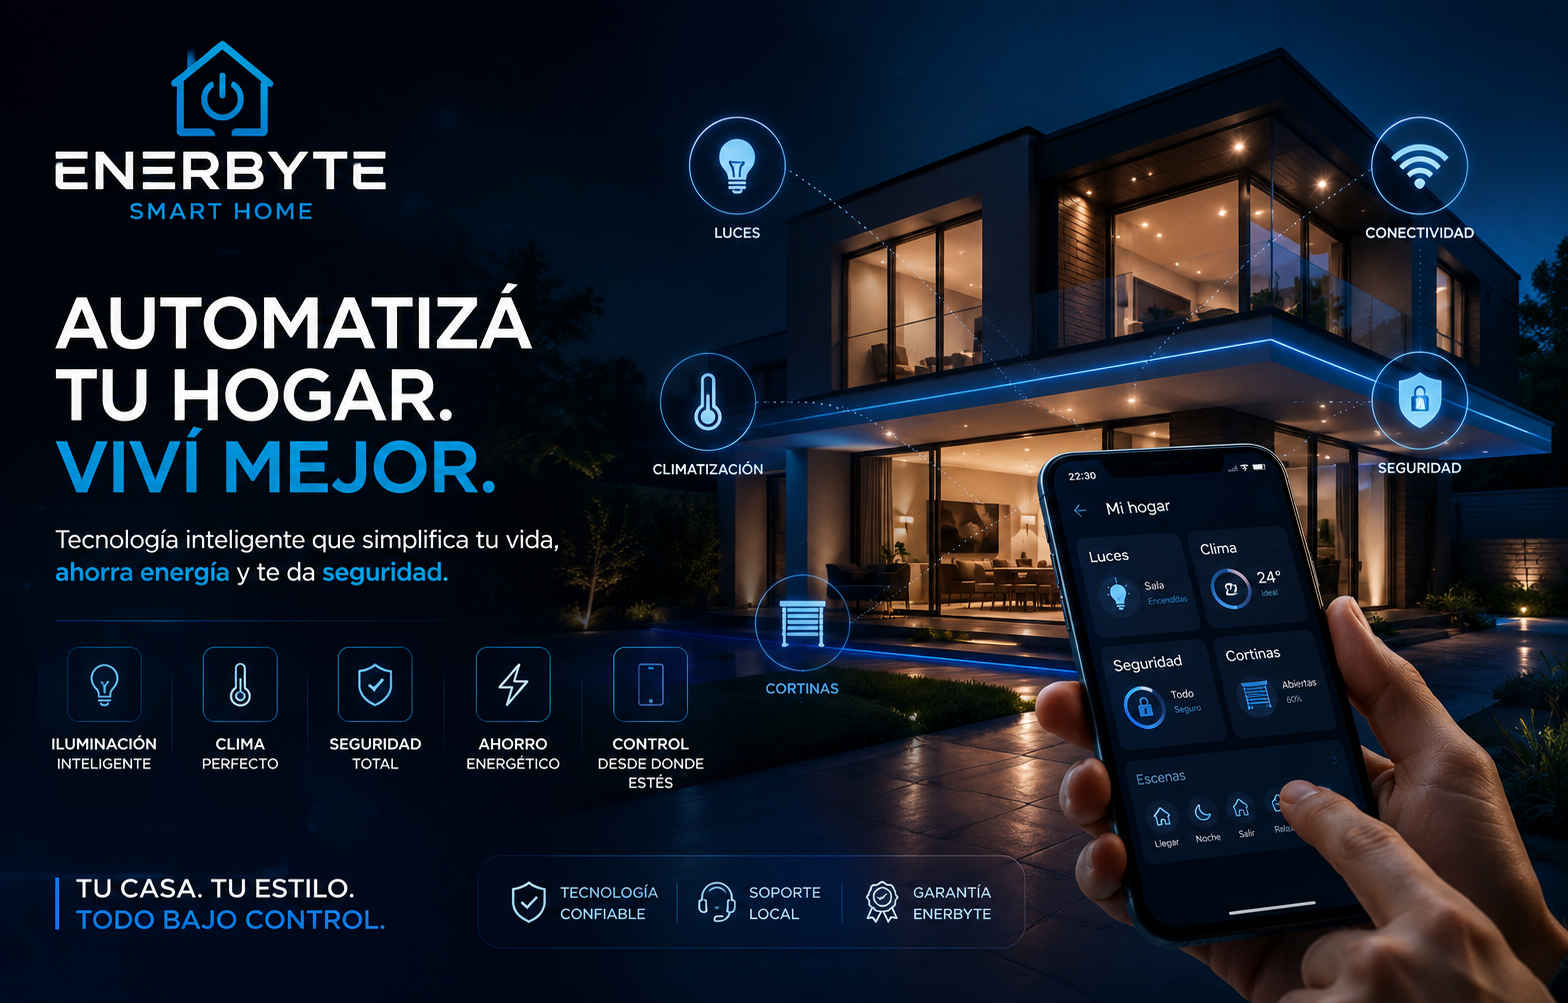
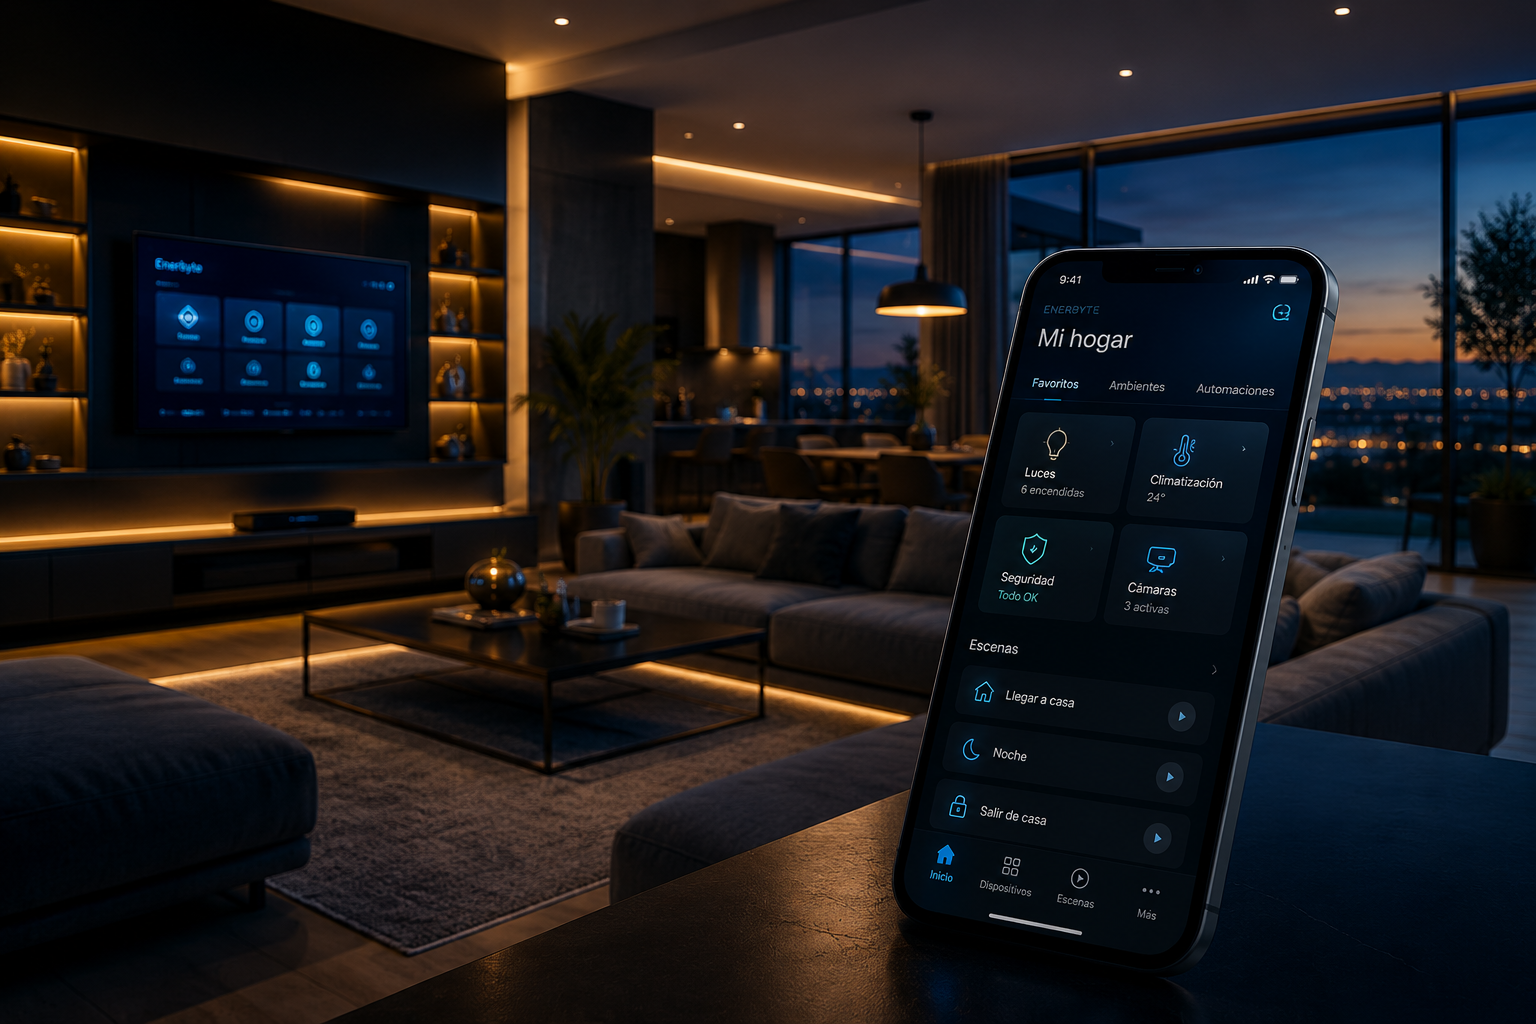
up

diff --git a/client/src/pages/Home.tsx b/client/src/pages/Home.tsx
@@ -120,61 +120,69 @@ export default function Home() {
       </header>
 
       {/* Hero Section */}
-      <section id="inicio" className="relative pt-32 pb-20 md:pt-40 md:pb-32 overflow-hidden">
-        <div className="absolute inset-0 opacity-20 pointer-events-none">
-          <div className="absolute top-20 right-0 w-96 h-96 bg-primary rounded-full blur-3xl animate-pulse"></div>
-          <div className="absolute bottom-0 left-1/4 w-96 h-96 bg-accent rounded-full blur-3xl animate-pulse" style={{ animationDelay: '1s' }}></div>
-        </div>
-        
-        <div className="container relative z-10">
-          <div className="grid md:grid-cols-2 gap-12 items-center">
-            <div className="space-y-6">
-              <h1 className="text-4xl md:text-5xl lg:text-6xl font-bold leading-tight">
-                Tu espacio, <span className="text-accent">verdaderamente</span> inteligente.
-              </h1>
-              <p className="text-lg text-muted-foreground leading-relaxed">
-                En Enerbyte transformamos hogares, comercios y empresas mediante automatización inteligente, seguridad conectada y eficiencia energética.
-              </p>
-              <p className="text-base text-muted-foreground leading-relaxed">
-                Integramos tecnología moderna para que puedas controlar luces, climatización, cámaras, rutinas y consumo eléctrico desde tu celular, de forma simple, segura y personalizada.
-              </p>
-              <div className="flex flex-col sm:flex-row gap-4 pt-4">
-                <Button size="lg" className="bg-primary hover:bg-primary/90 text-white gap-2" onClick={() => window.open('https://wa.me/543442405219', "_blank")}>
-                  Hablemos de tu proyecto
-                  <ArrowRight className="w-4 h-4" />
-                </Button>
-                <Button size="lg" variant="outline" className="border-accent text-accent" onClick={() => document.getElementById("soluciones")?.scrollIntoView({ behavior: "smooth" })}>
-                  Ver soluciones
-                </Button>
-              </div>
-            </div>
+      <section id="inicio" className="relative min-h-screen flex items-center overflow-hidden bg-black">
+  {/* Fondo hiperrealista */}
+      <div className="absolute inset-0 bg-cover bg-center" style={{backgroundImage: "url('/images/automation-hero.png')",}} />
 
-            <div className="relative block mt-8 md:mt-0">
-              <div className="absolute inset-0 bg-gradient-to-tr from-primary/20 to-accent/20 rounded-lg blur-2xl"></div>
-              <img 
-                src="/images/hero.png" 
-                alt="Smart Home" 
-                className="relative rounded-lg shadow-2xl border border-accent/30 hover:border-accent/60 transition-all duration-300" 
-              />
-            </div>
-          </div>
+  {/* Overlay oscuro */}
+  <div className="absolute inset-0 bg-gradient-to-b from-black/80 via-[#020b1f]/75 to-black/95" />
+  <div className="absolute inset-0 bg-gradient-to-r from-black/85 via-black/45 to-transparent" />
 
-          {/* Indicators */}
-          <div className="grid grid-cols-2 md:grid-cols-4 gap-4 mt-16 pt-12 border-t border-border">
-            {[
-              { icon: Smartphone, label: 'Control desde celular' },
-              { icon: Zap, label: 'Domótica personalizada' },
-              { icon: Leaf, label: 'Ahorro energético' },
-              { icon: Lock, label: 'Seguridad inteligente' }
-            ].map((item, i) => (
-              <div key={i} className="flex items-center gap-3 group">
-                <item.icon className="w-5 h-5 text-accent group-hover:scale-110 transition-transform" />
-                <span className="text-sm text-muted-foreground group-hover:text-accent transition-colors">{item.label}</span>
-              </div>
-            ))}
+  {/* Glow azul */}
+  <div className="absolute -top-24 -right-24 w-72 h-72 bg-primary/30 rounded-full blur-3xl" />
+  <div className="absolute bottom-20 left-10 w-64 h-64 bg-cyan-500/20 rounded-full blur-3xl" />
+
+  <div className="relative z-10 container mx-auto px-5 pt-32 pb-16">
+    <div className="max-w-3xl">
+
+      <div className="inline-flex items-center gap-2 px-4 py-2 rounded-full border border-primary/40 bg-primary/10 text-primary text-sm font-semibold mb-6 backdrop-blur">
+        <span className="w-2 h-2 rounded-full bg-primary animate-pulse" />
+        Tecnología inteligente
+      </div>
+
+      <h1 className="text-5xl md:text-7xl font-bold leading-tight text-white mb-6">
+        Tu espacio,
+        <br />
+        <span className="text-primary">verdaderamente</span>
+        <br />
+        inteligente.
+      </h1>
+
+      <p className="text-xl md:text-2xl text-white/80 leading-relaxed mb-8 max-w-2xl">
+        Automatización, seguridad y eficiencia energética para hogares,
+        comercios y empresas.
+      </p>
+
+      <div className="grid grid-cols-2 md:grid-cols-5 gap-3 mb-10">
+        {[
+          "Iluminación",
+          "Climatización",
+          "Seguridad",
+          "Ahorro",
+          "Control total",
+        ].map((item) => (
+          <div
+            key={item}
+            className="rounded-2xl border border-primary/20 bg-white/5 backdrop-blur-md px-4 py-4 text-center text-white/90 shadow-lg"
+          >
+            <span className="text-sm">{item}</span>
           </div>
-        </div>
-      </section>
+        ))}
+      </div>
+
+      <div className="flex flex-col sm:flex-row gap-4">
+        <Button size="lg" className="bg-primary hover:bg-primary/90 text-white text-lg py-7 rounded-xl gap-2 shadow-xl shadow-primary/30" onClick={() => window.open("https://wa.me/543442405219", "_blank")}>
+          Hablemos de tu proyecto
+          <ArrowRight className="w-5 h-5" />
+        </Button>
+
+        <Button size="lg" variant="outline" className="border-primary/50 text-primary hover:bg-primary/10 text-lg py-7 rounded-xl" onClick={() => document .getElementById("soluciones")?.scrollIntoView({ behavior: "smooth" })}>
+          Ver soluciones
+        </Button>
+      </div>
+    </div>
+  </div>
+</section>
 
       {/* Differential Section */}
       <section id="nosotros" className="py-20 md:py-32 bg-secondary/30 border-t border-accent/20">